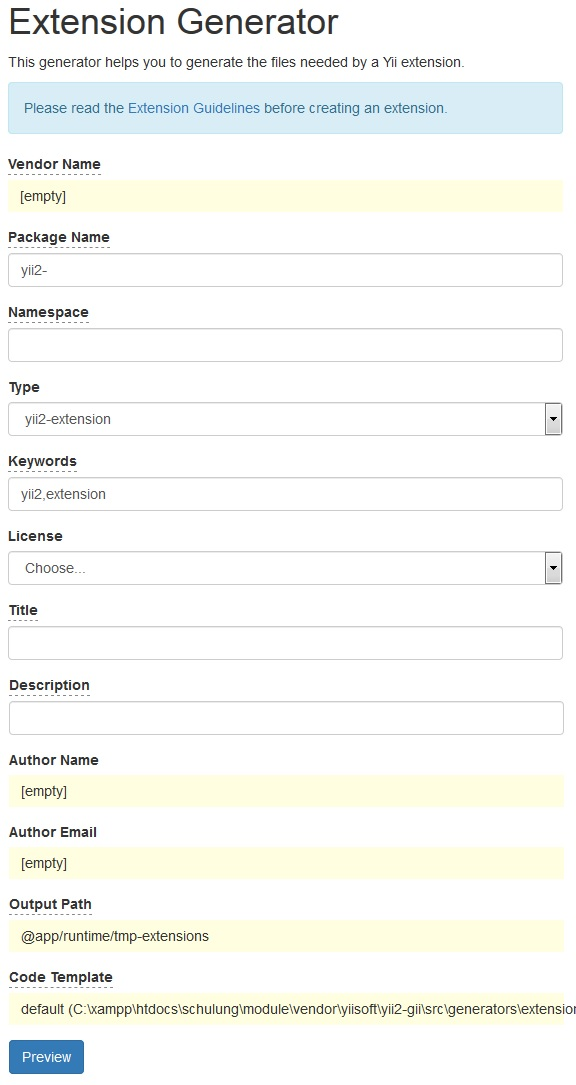
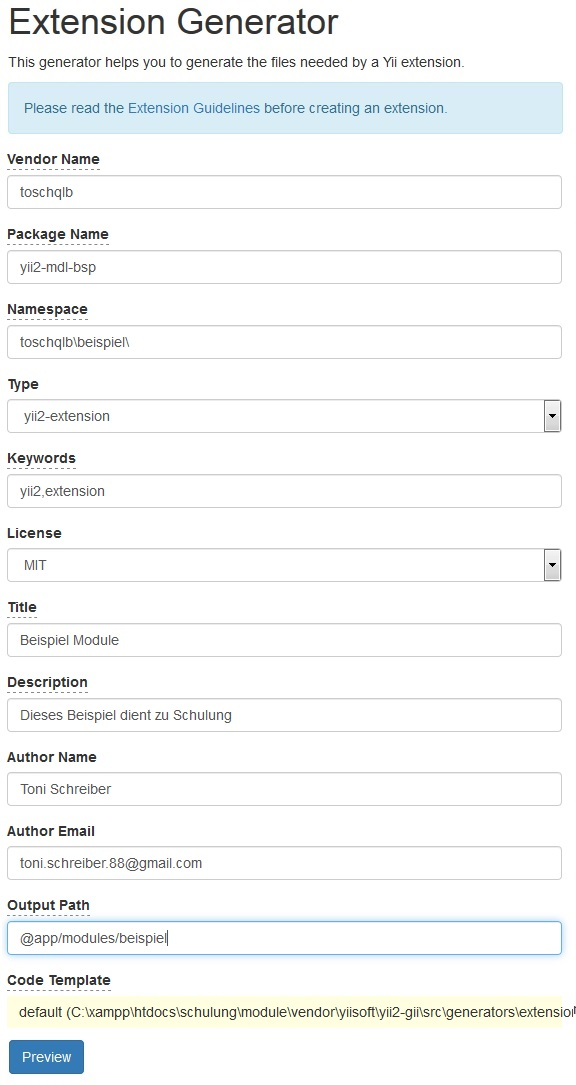
Gii test

diff --git a/README.md b/README.md
@@ -5,9 +5,11 @@
 ![gii](https://github.com/ToSchQLB/yii2_module_schulung/raw/master/images/01_gii.jpg)
 - Module erstellen
 
-![Extentsion Generator](https://github.com/ToSchQLB/yii2_module_schulung/raw/master/images/02_ext_gen.jpg)
+![Extension Generator](https://github.com/ToSchQLB/yii2_module_schulung/raw/master/images/02_ext_gen.jpg)
 ![Module Generator](https://github.com/ToSchQLB/yii2_module_schulung/raw/master/images/03_mdl_gen.jpg)
 
+
+![Extension Generator](https://github.com/ToSchQLB/yii2_module_schulung/raw/master/images/04_ext_gen_result.jpg)
 #### 1. Schritt:
 ```
 composer create-project --prefer-dist yiisoft/yii2-app-basic module
